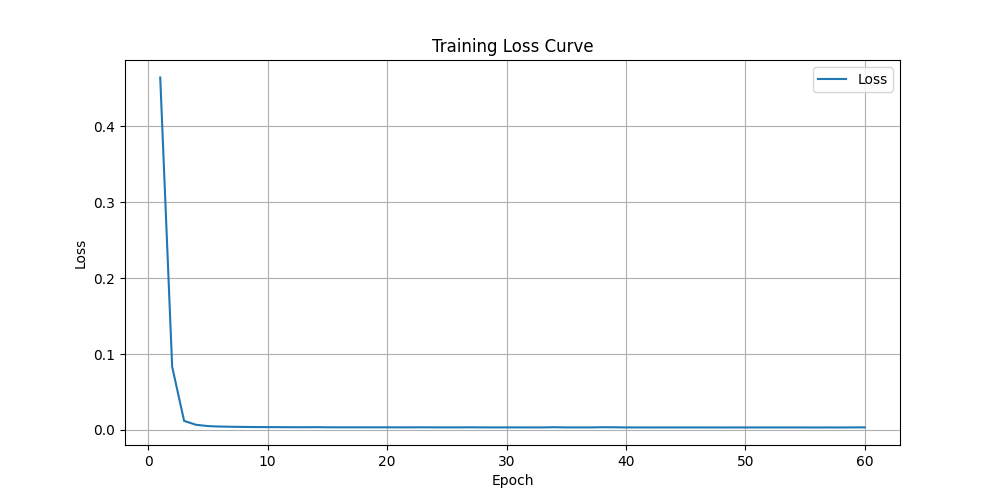
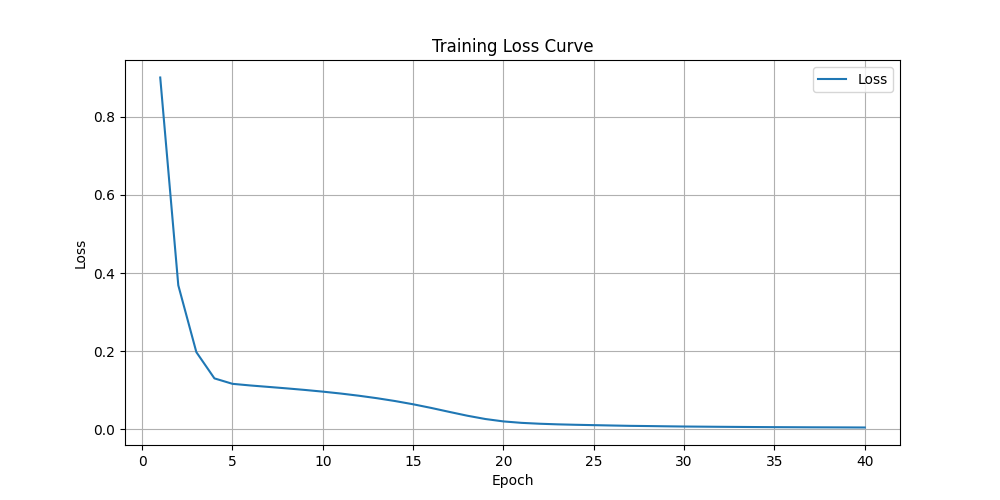
adding gif creation to the training process

diff --git a/plot_functions.py b/plot_functions.py
@@ -2,29 +2,8 @@ import matplotlib.pyplot as plt
 import numpy as np
 
 
-def plot_3d_result(x: [float], t: [float], predicted_solution: [float],
-                   solution_title: [str], true_solution=None) -> None:
-    """
-        Plot and visualize the predicted and true solutions of the wave equation.
-
-        Parameters:
-        - X: Spatial domain, a 2D array of shape (M, N) where M is the number of
-        spatial points and N is the number of time steps.
-        - T: Temporal domain, a 2D array of shape (M, N) where M is the number of
-        spatial points and N is the number of time steps.
-        - H_pred: Predicted wave solution, a 2D array of shape (M, N).
-        - H_true: True wave solution (optional), a 2D array of shape (M, N).
-
-        Usage:
-        - X, T, H_pred, H_true are the inputs to the function.
-        - X and T represent the spatial and temporal coordinates of the domain respectively.
-        - H_pred is the predicted wave solution obtained from the model.
-        - H_true (optional) is the true wave solution for comparison.
-
-        Example:
-        # >>> plot_3D_result(X, T, H_pred)
-        # >>> plot_3D_result(X, T, H_pred, H_true)
-        """
+def animate_3d_result(x: [float], t: [float], predicted_solution: [float],
+                      solution_title: [str], iteration: int, true_solution=None) -> None:
 
     x_mesh, t_mesh = np.meshgrid(x, t)
     fig = plt.figure(figsize=(14, 7))
@@ -33,32 +12,42 @@ def plot_3d_result(x: [float], t: [float], predicted_solution: [float],
     if true_solution is not None:
         ax_true = fig.add_subplot(122, projection='3d')
         surf_true = ax_true.plot_surface(x_mesh, t_mesh, true_solution, cmap='plasma', edgecolor='none')
-        ax_true.set_title('True Solution')
+        ax_true.set_title(f'True Solution')
         ax_true.set_xlabel('Spatial domain (x)')
         ax_true.set_ylabel('Temporal domain (t)')
         ax_true.set_zlabel(solution_title)
-        fig.colorbar(surf_true, shrink=0.5, aspect=10, ax=ax_true)
+        ax_true.xaxis.set_major_locator(plt.MaxNLocator(5))  # correct the axis for the plots
+        ax_true.yaxis.set_major_locator(plt.MaxNLocator(5))
+        fig.colorbar(surf_true, shrink=0.5, aspect=10, ax=ax_true, location='left')
+        ax_true.view_init(elev=10, azim=40)  # Adjust the azim parameter here for better view
 
         # Plot predicted wave
         ax_pred = fig.add_subplot(121, projection='3d')
         surf_pred = ax_pred.plot_surface(x_mesh, t_mesh, predicted_solution, cmap='plasma', edgecolor='none')
-        ax_pred.set_title('Predicted')
+        ax_pred.set_title(f'Predicted Solution  iteration = {iteration}')
         ax_pred.set_xlabel('Spatial domain (x)')
         ax_pred.set_ylabel('Temporal domain (t)')
         ax_pred.set_zlabel(solution_title)
-        fig.colorbar(surf_pred, shrink=0.5, aspect=10, ax=ax_pred)
+        ax_pred.xaxis.set_major_locator(plt.MaxNLocator(5))  # correct the axis for the plots
+        ax_pred.yaxis.set_major_locator(plt.MaxNLocator(5))
+        fig.colorbar(surf_pred, shrink=0.5, aspect=10, ax=ax_pred, location='left')
+        ax_pred.view_init(elev=10, azim=40)  # Adjust the azim parameter here for better view
 
     else:
         # Plot predicted wave
         ax_pred = fig.add_subplot(111, projection='3d')
         surf_pred = ax_pred.plot_surface(x_mesh, t_mesh, predicted_solution, cmap='plasma', edgecolor='none')
-        ax_pred.set_title('Predicted')
+        ax_pred.set_title(f'Predicted Solution   iteration = {iteration}')
         ax_pred.set_xlabel('Spatial domain (x)')
         ax_pred.set_ylabel('Temporal domain (t)')
         ax_pred.set_zlabel(solution_title)
-        fig.colorbar(surf_pred, shrink=0.5, aspect=10, ax=ax_pred)
+        ax_pred.xaxis.set_major_locator(plt.MaxNLocator(5))  # correct the axis for the plots
+        ax_pred.yaxis.set_major_locator(plt.MaxNLocator(5))
+        fig.colorbar(surf_pred, shrink=0.5, aspect=10, ax=ax_pred, location='left')
+        ax_pred.view_init(elev=10, azim=40)  # Adjust the azim parameter here for better view
 
-    plt.show()
+    plt.savefig(f'images/{solution_title}/training_{iteration}.png')
+    plt.close()
 
 
 def plot_slice(t_time: list[float | int], x_bound: [float | int, float | int],

diff --git a/train.py b/train.py
@@ -3,6 +3,7 @@ import torch.nn as nn
 import time
 import torch
 import calculation_functions as cf
+from plot_functions import animate_3d_result as animate
 
 
 class PINN(nn.Module):
@@ -150,7 +151,7 @@ def mse_loss(model, lamda1, lamda2, lamda3, n_0, n_b, n_p):
     return loss_
 
 
-def train_model(model, optimizer, inputs, x, t):
+def train_model(model, optimizer, inputs, x, t, animation_prep=False):
 
     start_time = time.time()
 
@@ -163,7 +164,7 @@ def train_model(model, optimizer, inputs, x, t):
     losses  = []
 
     # Training loop
-    for i in range(6000):
+    for i in range(4000):
 
         optimizer.zero_grad()
         # Model prediction
@@ -187,20 +188,13 @@ def train_model(model, optimizer, inputs, x, t):
         if i % 100 == 0:
             iters.append(i)
             losses.append(loss.item())
+        if animation_prep:
+            if i % 40 == 0:
 
-        # Images for GIF
-        # if i % 100 == 0:
-        #   continues_x_t = np.stack((X.ravel(), T.ravel()), axis=-1)
-        #   continues_x_t_tensor = torch.tensor(continues_x_t, dtype=torch.float32).to(device)
-        #   predictions = model(continues_x_t_tensor)
-        #   um, vm = predictions[:, 0], predictions[:, 1]
-        #   uh = um.cpu().detach()
-        #   vh = vm.cpu().detach()
-        #   hh = torch.sqrt(uh**2 + vh**2)
-        #   file = save_result(X, T, hh.reshape(X.shape), H_true=None, epoch=i, save_dir='plots')
-        #   files.append(file)
-
-    # save_gif_PIL("nn.gif", files, fps=20, loop=0)
+                u_pred, real_u, v_pred, real_v, h_pred, real_h = cf.prep_anim(model, x, t)
+                animate(x, t, u_pred, 'u(x,t)', i, real_u)
+                animate(x, t, v_pred, 'v(x,t)', i, real_v)
+                animate(x, t, h_pred, 'h(x,t)', i, real_h)
 
     elapsed = time.time() - start_time
     print('Training time: %.2f' % elapsed)

diff --git a/main.py b/main.py
@@ -5,11 +5,12 @@ from train import train_model as train_model
 import calculation_functions as cf
 import test
 
-train = False
-save = False  # train the model and save the trained state of the model
-load = True  # load the trained state of the model for use
+train = True
+save = True  # train the model and save the trained state of the model
+load = False  # load the trained state of the model for use
+prepare_animation = True  # prepare images for animation
 
-model = PINN(2, 2, 32, 5)
+model = PINN(2, 2, 32, 4)
 
 if load:
     optimizer = optim.Adam(model.parameters(), lr=1e-4, betas=(0.9, 0.999), eps=1e-08, weight_decay=0, amsgrad=False)
@@ -21,11 +22,11 @@ if load:
 if train:
     x, t = cf.data_sampler(100, [-1, 1], [0, 4])
     # Setup model and optimizer
-    optimizer = optim.Adam(model.parameters(), lr=1e-3, betas=(0.9, 0.999), eps=1e-08, weight_decay=0, amsgrad=False)
+    optimizer = optim.Adam(model.parameters(), lr=1e-4, betas=(0.9, 0.999), eps=1e-08, weight_decay=0, amsgrad=False)
     x_tensor = torch.tensor(x, dtype=torch.float32, requires_grad=True).unsqueeze(1)
     t_tensor = torch.tensor(t, dtype=torch.float32, requires_grad=True).unsqueeze(1)
     inputs = torch.cat([x_tensor, t_tensor], dim=1)
-    iters, losses = train_model(model, optimizer, inputs, x, t)
+    iters, losses = train_model(model, optimizer, inputs, x, t, prepare_animation)
 
     if save:
         torch.save(model.state_dict(), 'model/model_weights.pth')
@@ -34,4 +35,4 @@ if train:
             'optimizer_state_dict': optimizer.state_dict(),
         }, 'model/model_checkpoint.pth')
 
-test.show_slices(model, [-1, 1], [1.5, 3.5], 100)
+# test.show_slices(model, [-1, 1], [1.5, 3.5], 100)

diff --git a/create_animation.py b/create_animation.py
@@ -1,0 +1,32 @@
+import os
+import matplotlib.pyplot as plt
+import matplotlib.animation as animation
+
+fig, ax = plt.subplots(figsize=(14, 7))
+
+# Create a list to store the frames
+ims = []
+
+# Define the base path to the folder containing the images
+base_folder_path = 'images'
+solution_title = 'v(x,t)'  # Replace with your actual solution title
+
+# Loop through the specified range to read images and add to the list of frames
+for i in range(6000):
+    if i % 40 == 0:
+        path = os.path.join(base_folder_path, solution_title, f'training_{i}.png')
+        if os.path.exists(path):
+            img = plt.imread(path)
+            im = ax.imshow(img, animated=True)
+            ims.append([im])
+
+# Create an animation
+ani = animation.ArtistAnimation(fig, ims, interval=100, blit=True, repeat_delay=1000)
+
+# Define the output path for the GIF
+output_path = os.path.join(base_folder_path, 'v(x,t).gif')
+
+# Save the animation as a GIF
+ani.save(output_path, writer='Pillow')
+
+print(f'GIF saved at {output_path}')

diff --git a/calculation_functions.py b/calculation_functions.py
@@ -38,3 +38,35 @@ def numerical_solution(x, t):
     V = np.sin(np.pi * t / 4) * np.sin(np.pi * (x + 1) / 2)
     return U, V
 
+
+def prep_anim(model, x, t):
+
+    model.eval()
+    x_mesh, t_mesh = np.meshgrid(x, t)
+
+    real_u, real_v = numerical_solution(x_mesh, t_mesh)
+    real_h = np.sqrt(real_u**2 + real_v**2)
+
+    x_mesh = x_mesh.flatten()
+    t_mesh = t_mesh.flatten()
+
+    x_tensor = torch.tensor(x_mesh, dtype=torch.float32, requires_grad=True).unsqueeze(1)
+    t_tensor = torch.tensor(t_mesh, dtype=torch.float32, requires_grad=True).unsqueeze(1)
+
+    inputs = torch.cat([x_tensor, t_tensor], dim=1)
+
+    pred = model.forward(inputs)
+    u_pred = pred[:, 0:1]
+    v_pred = pred[:, 1:2]
+
+    u_pred = u_pred.detach().numpy()
+    v_pred = v_pred.detach().numpy()
+
+    u_pred = np.reshape(u_pred, (len(x), len(x)))
+    v_pred = np.reshape(v_pred, (len(x), len(x)))
+
+    h_pred = np.sqrt(u_pred**2 + v_pred**2)
+
+    model.train()
+
+    return u_pred, real_u, v_pred, real_v, h_pred, real_h
